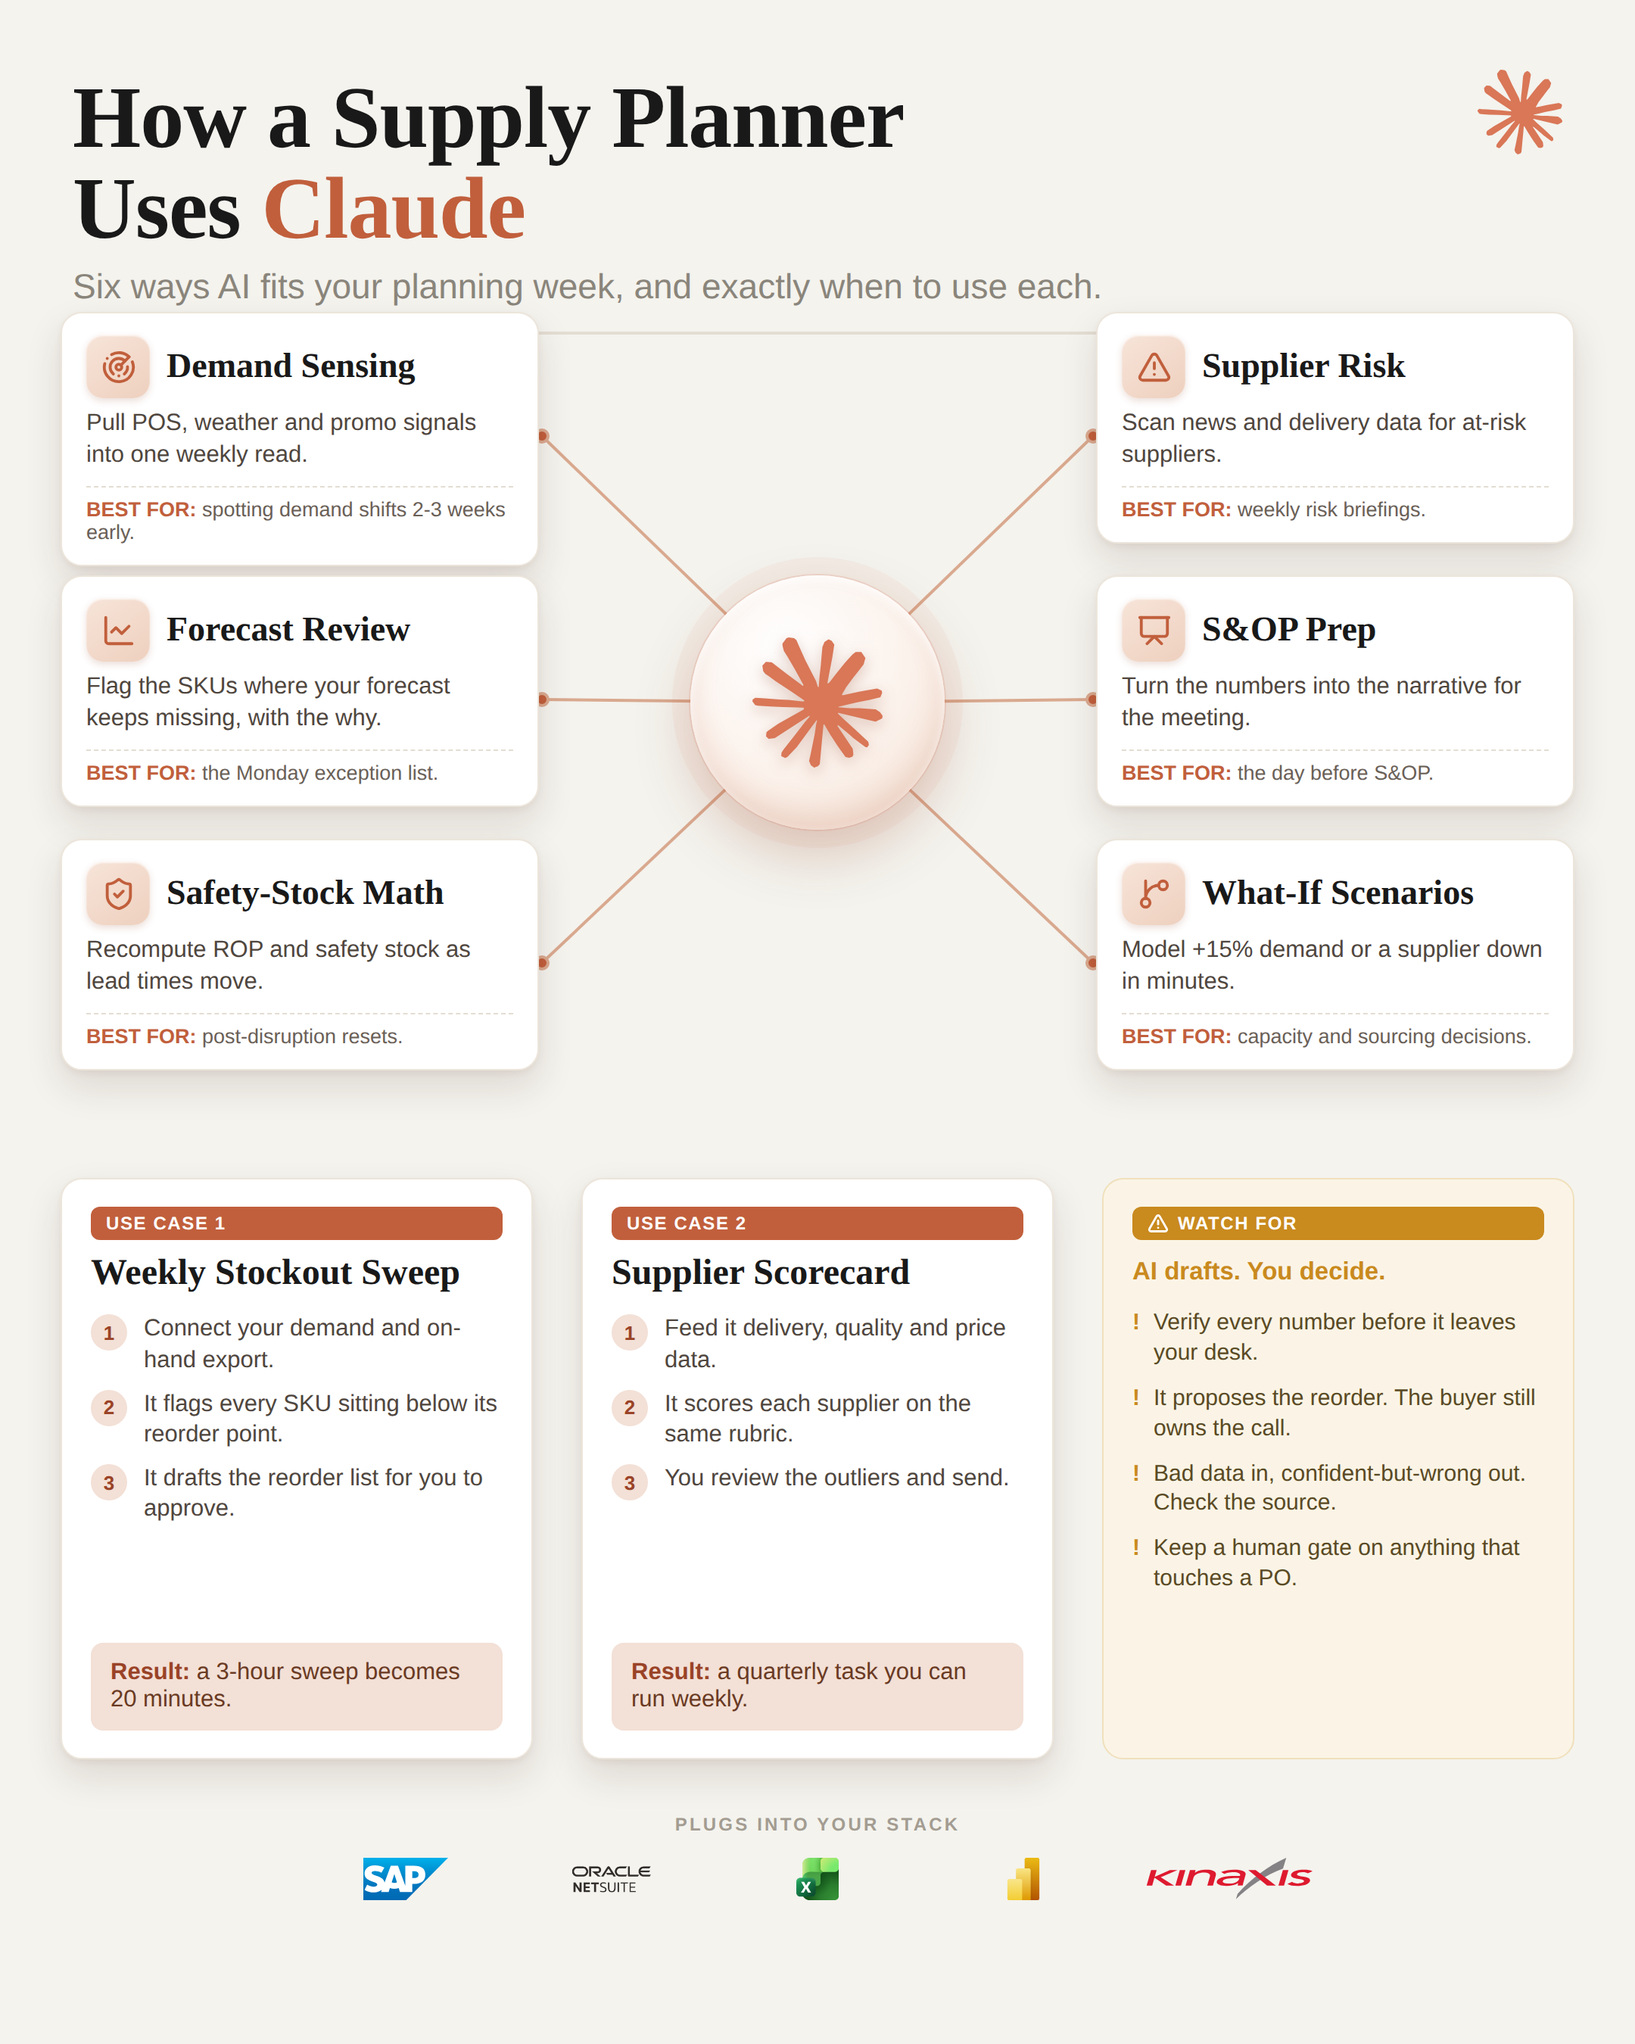
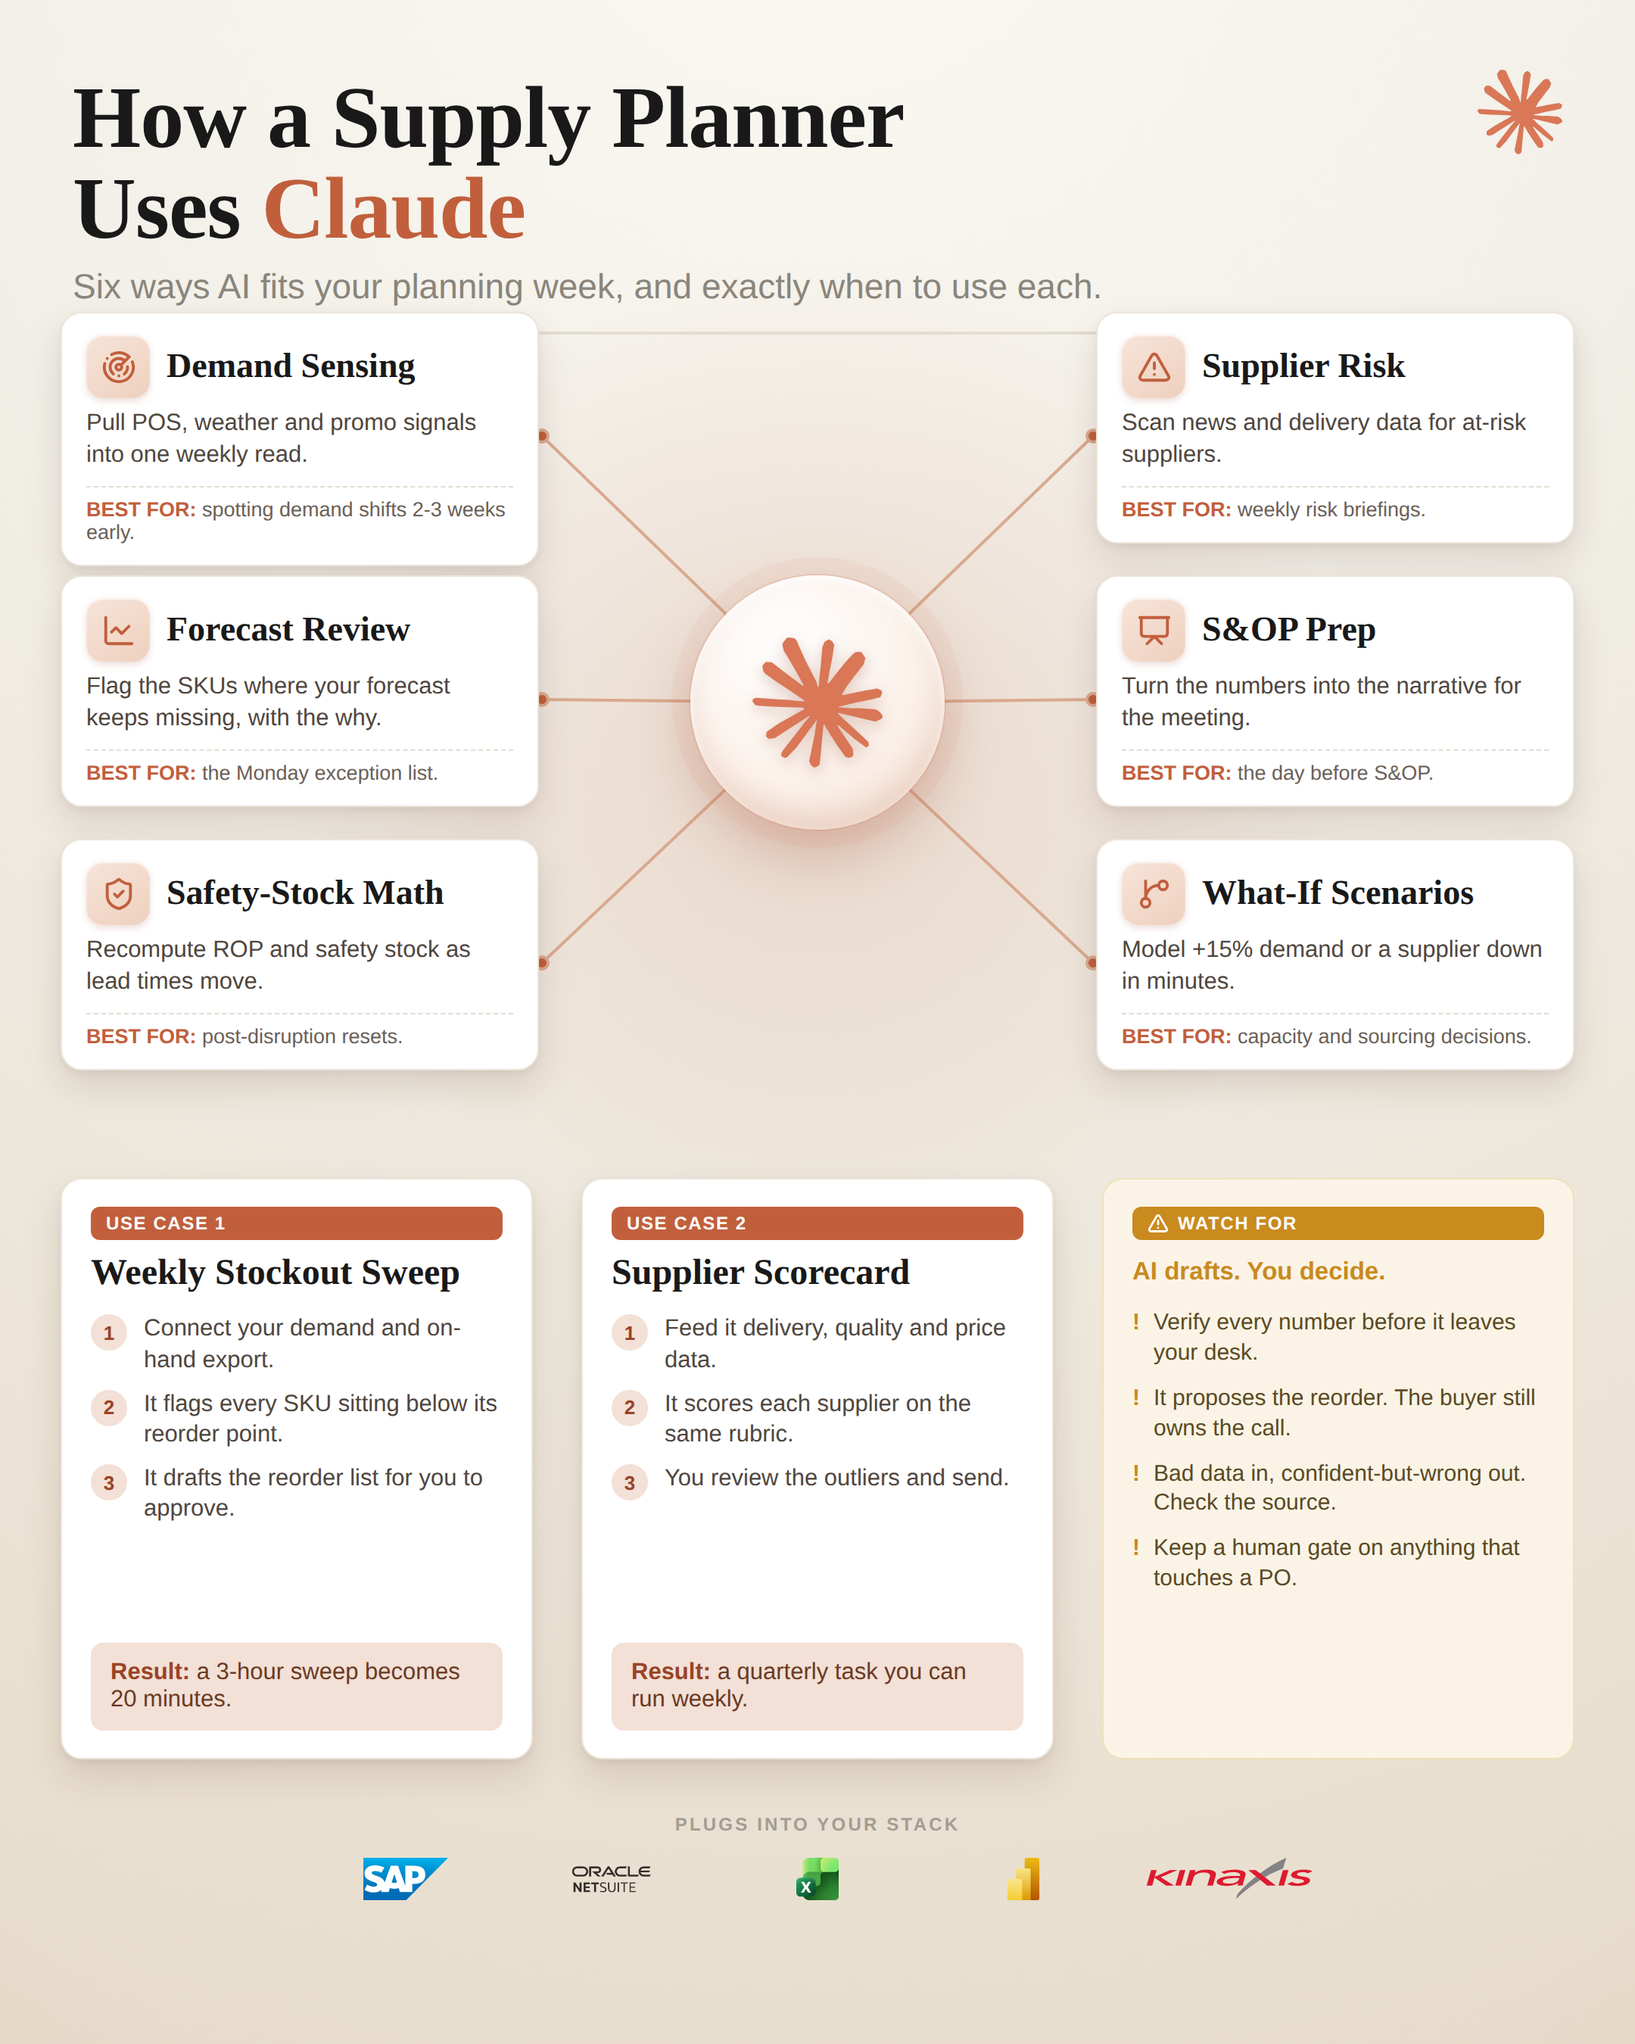
Add dramatic backgrounds + production playbook
- Both templates: warm cream->clay radial gradient + soft coral glow behind
  the hero + subtle vignette (premium depth; helps light tiers/cards pop)
- Add renderer/README.md: the full production playbook capturing this
  session's system, brand tokens, 3D technique, layout laws, QA checklist,
  changelog, and open items, so generation is precise from the get-go

https://claude.ai/code/session_01Vrk5xpdsJ5u5M1yAaQw8Yb

Changed region(s): [[0.0, 0.6844, 1.0, 1.0], [0.3412, 0.3111, 0.6514, 0.5289]]

diff --git a/infographic-setup/renderer/templates/pf1-maturity-ladder.html b/infographic-setup/renderer/templates/pf1-maturity-ladder.html
@@ -18,8 +18,13 @@
   }
   *{margin:0;padding:0;box-sizing:border-box;}
   body{background:#ddd;}
-  .canvas{width:1080px;height:1350px;background:var(--cream);position:relative;
-    font-family:var(--sans);color:var(--ink);overflow:hidden;padding:54px 0 0;}
+  .canvas{width:1080px;height:1350px;position:relative;
+    font-family:var(--sans);color:var(--ink);overflow:hidden;padding:54px 0 0;
+    background:
+      radial-gradient(closest-side at 50% 40%, rgba(193,95,60,.15), rgba(193,95,60,0) 70%),
+      radial-gradient(140% 115% at 50% -10%, #FCF9F3 0%, #F2F0E9 38%, #E7DCCB 100%);}
+  .canvas::after{content:"";position:absolute;inset:0;pointer-events:none;z-index:9;
+    background:radial-gradient(135% 108% at 50% 44%, rgba(110,64,32,0) 60%, rgba(86,50,24,.13) 100%);}
   .head{padding:0 60px;}
   .title{font-family:var(--serif);font-weight:700;font-size:57px;line-height:1.02;letter-spacing:-.5px;max-width:870px;}
   .title .c{color:var(--coral);}

diff --git a/infographic-setup/renderer/templates/pf5-radial-hub.html b/infographic-setup/renderer/templates/pf5-radial-hub.html
@@ -18,8 +18,13 @@
   }
   *{margin:0;padding:0;box-sizing:border-box;}
   body{background:#ddd;}
-  .canvas{width:1080px;height:1350px;background:var(--cream);position:relative;
-    font-family:var(--sans);color:var(--ink);overflow:hidden;}
+  .canvas{width:1080px;height:1350px;position:relative;
+    font-family:var(--sans);color:var(--ink);overflow:hidden;
+    background:
+      radial-gradient(closest-side at 50% 37%, rgba(193,95,60,.17), rgba(193,95,60,0) 66%),
+      radial-gradient(140% 115% at 50% -10%, #FCF9F3 0%, #F2F0E9 38%, #E7DCCB 100%);}
+  .canvas::after{content:"";position:absolute;inset:0;pointer-events:none;z-index:9;
+    background:radial-gradient(135% 108% at 50% 42%, rgba(110,64,32,0) 60%, rgba(86,50,24,.13) 100%);}
   .pad{padding:48px 48px 0;}
   .title{font-family:var(--serif);font-weight:700;font-size:58px;line-height:1.03;letter-spacing:-.5px;}
   .title .c{color:var(--coral);}

diff --git a/infographic-setup/renderer/README.md b/infographic-setup/renderer/README.md
@@ -1,0 +1,159 @@
+# Shetty's Desk — Infographic Renderer & Production Playbook
+**Created**: 2026-06-15 · **Status**: Active. Read this before building or generating any infographic template.
+**Companion doc**: `../memory/visual-benchmarks/top100-visual-dna.md` (the 100-image analysis: 10 laws, 8 power formats, subject→format selector). This file is the *production* layer — how we actually build them.
+
+---
+
+## 0. What this is
+A **deterministic HTML → PNG renderer** for Shetty's Desk LinkedIn infographics. We write a self-contained HTML template, and Playwright/Chromium screenshots it at exact pixels. Text and numbers are rendered by code (never hallucinated by an image model), so every output is precise, on-brand, and reproducible.
+
+**Why code-render over Gemini:** structured posts (ladders, hubs, comparisons, KPI/formula cards, tables) need exact numbers, brand-locked layout, and clean geometry. Gemini stays as a fallback only for illustration/metaphor posts where exact data is not load-bearing.
+
+---
+
+## 1. Quick start
+```bash
+# one-time (per fresh container): browser binary for Playwright
+npx playwright install chromium
+
+# render all templates → out/*.png  (run from the renderer/ dir, or pass absolute path)
+node render.mjs
+# render one
+node render.mjs templates/pf1-maturity-ladder.html out/pf1-maturity-ladder.png
+```
+- Playwright is used via the **global** install (resolved by absolute path inside `render.mjs`) — no repo dependency. `node_modules/` is gitignored.
+- Output is `#card` screenshotted at `deviceScaleFactor: 2` → **2160×2700** PNG from a **1080×1350** layout.
+- `render.mjs` resolves `templates/` and `out/` relative to itself, so cwd does not matter — but call it with the absolute path if your shell cwd has drifted.
+
+---
+
+## 2. Canvas & format (non-negotiable)
+- **4:5 portrait — 1080×1350 baseline** (rendered @2x). This is the measured dominant format of the top-100 corpus (64/97 were exactly 4:5; 85/97 portrait). **Do NOT use 1:1 square** — the old `brand-params.json` 2048² spec is wrong for this genre.
+- Extra-tall variant (1080×1600–2060) only for very dense tables.
+- Never landscape (crops badly in feed).
+
+---
+
+## 3. Brand system
+| Token | Value | Use |
+|---|---|---|
+| Coral (primary) | `#C15F3C` | accents, labels, the brand line |
+| Claude clay | `#D97757` | the official Claude logo fill (lobehub) |
+| Cream (base) | `#F4F3EE` | background base |
+| Ink | `#191919` | primary text |
+| Secondary text | `#5e544c` / grey `#8A857B` | body / muted |
+| Caution (semantic) | `#C98A1E` (amber) | the ONE non-coral tone, used only for "watch for / do-not" |
+| Level gradient | light coral → deep coral (`#F3E0D6` → `#B45A30` → `#682B11`) | encodes maturity/depth |
+
+**Dramatic background recipe** (added 2026-06-15 — apply to every template's `.canvas`):
+```css
+.canvas{ background:
+  radial-gradient(closest-side at 50% 38-40%, rgba(193,95,60,.15), rgba(193,95,60,0) 70%),   /* coral glow behind the hero */
+  radial-gradient(140% 115% at 50% -10%, #FCF9F3 0%, #F2F0E9 38%, #E7DCCB 100%); }            /* warm cream→clay depth */
+.canvas::after{ content:""; position:absolute; inset:0; pointer-events:none; z-index:9;
+  background:radial-gradient(135% 108% at 50% 43%, rgba(110,64,32,0) 60%, rgba(86,50,24,.13) 100%); }  /* subtle vignette */
+```
+Position the glow's `at 50% Y%` behind the post's hero element. Keep the vignette ≤ .14 so edge text stays legible.
+
+**Color discipline:** semantic over decorative. One hue per category/level, carried consistently. Single-accent coral can't do red/green diagnostics, so encode levels by coral *value* (light→deep) and before/after by muted-grey vs coral. The amber caution tone is the only sanctioned exception. For tool-specific posts rendered in HTML, the featured tool's identity palette is allowed.
+
+---
+
+## 4. Typography
+- **Display:** `Fraunces` (700) · **Body/labels:** `Inter` (400–700). Loaded via Google Fonts `<link>`; `document.fonts.ready` is awaited in `render.mjs`.
+- ⚠ **These are STAND-INS.** Lock the real Shetty's Desk brand fonts when provided, then update both templates + this file.
+- Working sizes that read well at 1080×1350 (from this session's QA): title 55–57px; section/level label 29–30px; card title 22–23px; body/row text 15.5–16.5px; tags/best-for 13–13.5px. Don't go below ~13px at 1080 width.
+
+---
+
+## 5. Icons & logos (how to add)
+Three vendored sources under `assets/` (all inlined or referenced locally → deterministic, offline-safe):
+- **UI glyphs → Lucide** (`lucide-static`, ISC). Inline the SVG `<path>`s with `stroke="currentColor"`; color via CSS. Vendored in `assets/icons/`.
+- **AI brand logos → `@lobehub/icons-static-svg`** (Claude, Claude Code, OpenAI, Gemini, Copilot, Perplexity; `-color` variants carry brand colors). Vendored in `assets/logos/`. The Claude mark fill is `#D97757`.
+- **Enterprise SC stack → `../Icons and Logos/`** (SAP, Oracle/NetSuite, Anaplan, Kinaxis, Workday, Dynamics 365, Epicor, Infor, Power BI, Excel, Office suite, Gartner…). The five used in PF5 are normalized into `assets/logos/sc/`.
+
+To regenerate the icon set: `npm install @lobehub/icons-static-svg lucide-static` (in `renderer/`), then copy the SVGs you need into `assets/`. **Logo strips:** wrap each logo in a fixed-size box with `object-fit: contain` so mismatched aspect ratios read as one even row.
+
+---
+
+## 6. The 3D slab technique (the "impact" look)
+Flat rounded rectangles read 2D. For real extruded depth (used in PF1):
+```css
+.tier{ border-radius:26px;
+  background:linear-gradient(168deg, <light> 0%, <base> 70%, <deep> 100%);   /* lit top face */
+  box-shadow:
+    0 5px 0 <s1>, 0 10px 0 <s2>, 0 15px 0 <s3>, 0 20px 0 <s4>,               /* layered darkening edge = thickness */
+    0 27px 38px rgba(120,70,40,.28),                                          /* soft cast shadow */
+    inset 0 2px 0 rgba(255,255,255,.55); }                                    /* top gloss highlight */
+```
+`<s1..s4>` darken progressively. Pair with 3D icon orbs (`radial-gradient` + inset highlight). Geometry-heavy shapes (rings, pyramids, hub-spoke, funnels) are exactly why we code-render — clean shapes + exact text.
+
+---
+
+## 7. Layout laws (learned this session)
+1. **3-zone vertical:** title (2 lines, one word coral-popped, + credibility sub) / body / [footer optional]. Body never touches edges.
+2. **Repeated per-cell schema** is the #1 "designed not generated" tell: anchor (number/icon) → bold label → one-line gloss → optional tag (Use For / Best For / Limitation / Result).
+3. **Side annotations need their own rail.** Never let margin text sit under a full-width block (this caused the "text behind the first block" bug). Use a CSS grid per row: `[left-rail | centered block | right-rail]`, so annotations align to their block automatically.
+4. **One clean text block per layer** beats scattered callouts. PF1 uses a parallel "You ___ / It ___" line per level — it doubles as the progression story.
+5. **Keep rows single-line.** Narrow blocks wrap text and overflow. Use a gentle taper (e.g. 100→89→78→67%) and a wide enough column; shorten copy before shrinking type.
+6. **Budget the vertical.** Removing the footer frees ~56px. Confirm the last block clears the bottom; the 3D cast shadow may overflow into bottom whitespace (fine).
+7. **Fill cards with flex.** Hollow card bottoms look unfinished — `display:flex;flex-direction:column` + `margin-top:auto` on the closing element (e.g. a Result box) anchors it to the bottom.
+8. **More whitespace + bigger type reads more premium** than cramming. Bigger blocks, fewer words per line.
+9. **Footer:** the heavy black bar was removed (Tiger's call, 2026-06-15). Default = no footer bar. (Sign-off/handle standard: TBD — see open questions.)
+
+---
+
+## 8. The two reference templates
+- **`templates/pf1-maturity-ladder.html`** — Power Format **PF1 Maturity Ladder** (reconstruction of corpus ref #71). Inverted 3D stacked pyramid, deepening coral, "START HERE" arrow descending into depth, per-layer "You/It" annotations. Self-location hook: "most planners never leave the first one."
+- **`templates/pf5-radial-hub.html`** — Power Format **PF5 Radial Hub** (ref #97). Central Claude-logo orb = engine, six feature cards each with a "BEST FOR:" tag, two grounded use-case cards + one amber "Watch for" honesty card, "Plugs into your stack" logo strip.
+
+These are the proven, hand-built reference outputs. Next step is to parametrize them into `{{token}}` templates the pipeline can fill (see open items).
+
+---
+
+## 9. Visual-QA checklist (run on every render)
+- [ ] 4:5 (1080×1350); nothing clipped at the bottom edge
+- [ ] One eye-first hero (title / number / shape)
+- [ ] Every cell follows the same micro-schema
+- [ ] No row text wrapping unintentionally; no orphaned single words
+- [ ] Side annotations in their rail, not under a block; aligned to their block
+- [ ] Color is semantic (coral depth for levels; amber only for caution)
+- [ ] No hollow card bottoms (flex-fill); balanced whitespace
+- [ ] Real icons (Lucide) + real logos (lobehub/SC set), no placeholder glyphs
+- [ ] Background has the warm-gradient + glow + vignette
+- [ ] No typos; numbers real; no em dashes
+- [ ] Legible at mobile feed size (title + hero), dense detail OK as save-to-zoom
+
+---
+
+## 10. Session changelog (2026-06-14 → 06-15)
+1. Analyzed 95/96 of the top-100 corpus (9 vision agents) → `top100-visual-dna.md`.
+2. Measured canvas formats → switched target to **4:5 1080×1350** (corpus is 66% 4:5).
+3. Built deterministic renderer (`render.mjs`, Playwright global-by-path).
+4. Built **PF1** (maturity ladder) and **PF5** (radial hub) as coral-on-cream templates.
+5. Added true **3D extruded slabs** + lit gradients + 3D icon orbs.
+6. Integrated **Lucide** glyphs + **@lobehub/icons** (official Claude logo) + the **SC logo set** ("Plugs into your stack" strip).
+7. Fixed "text-behind-first-block": introduced **left/right rails**; replaced jumbled callouts with **one per-layer text block**.
+8. Fixed row-wrap/overflow with a gentler taper + wider column.
+9. **Removed the black footer bars**; bumped type sizes for readability; flex-filled use-case cards; normalized the logo strip.
+10. Added the **dramatic background** (warm gradient + coral hero glow + vignette).
+
+---
+
+## 11. Open items / TODO
+- [ ] **Brand fonts** — replace Fraunces/Inter stand-ins (the last ~5% to pixel-final).
+- [ ] **Footer/sign-off standard** — confirm: no footer at all, or a minimal cream handle? (`tiger-voice` hard rule currently says no "Shetty's Desk" sign-off on the image.)
+- [ ] **Background drama level** — confirm warm-dramatic is the standard (vs a bolder dark variant for some posts).
+- [ ] **Parametrize** PF1 + PF5 into `{{token}}` templates + a small data schema so `/autopilot` can fill any topic.
+- [ ] **Build next formats** from the power-format shortlist: Comparison/Versus (ref #33), KPI/Formula Card (ref #5), Cheat-Sheet Grid (ref #70), Decision Tree (ref #54).
+- [ ] Wire the **subject→format selector** + this QA checklist into the pipeline's visual-spec/visual-QA steps.
+- [ ] Update `brand-params.json` canvas dims (2048² → 4:5) to match.
+
+---
+
+## 12. How to build a NEW template
+1. Pick the power format from the subject→format selector in `top100-visual-dna.md`.
+2. Copy the nearest reference template (`pf1`/`pf5`) as a starting skeleton.
+3. Apply: 4:5 canvas + dramatic background; 3-zone structure; repeated per-cell schema; coral/semantic color; Lucide icons + relevant logos; 3D where geometry helps.
+4. `node render.mjs templates/<new>.html out/<new>.png`, then run the §9 QA checklist by reading the PNG.
+5. Iterate on the render (max ~2 passes), commit template + PNG.
